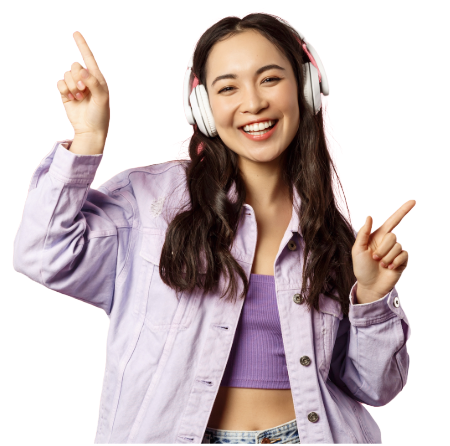
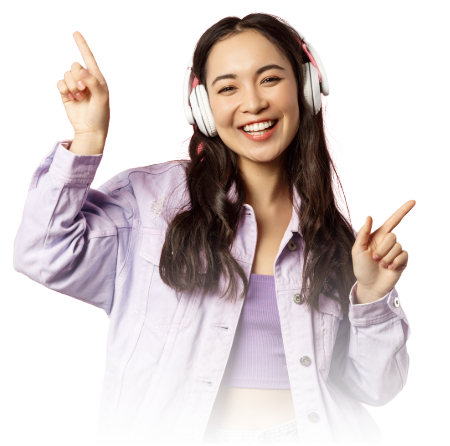
Added transparent images

Changed region(s): [[0.1867, 0.5538, 0.9333, 1.0], [0.0933, 0.583, 0.3111, 0.7578]]

diff --git a/index.html b/index.html
@@ -101,9 +101,9 @@
   </header>
 
   <section class="relative">
-    <div class="hidden sm:block absolute bottom-0 left-0 w-full h-28 bg-gray-950"
+    <!-- <div class="hidden sm:block absolute bottom-0 left-0 w-full h-28 bg-gray-950"
       style="clip-path: polygon(0 100%, 100% 100%, 50% 50%); z-index: 100;">
-    </div>
+    </div> -->
     <!-- carousel -->
     <div class="carousel relative">
 
